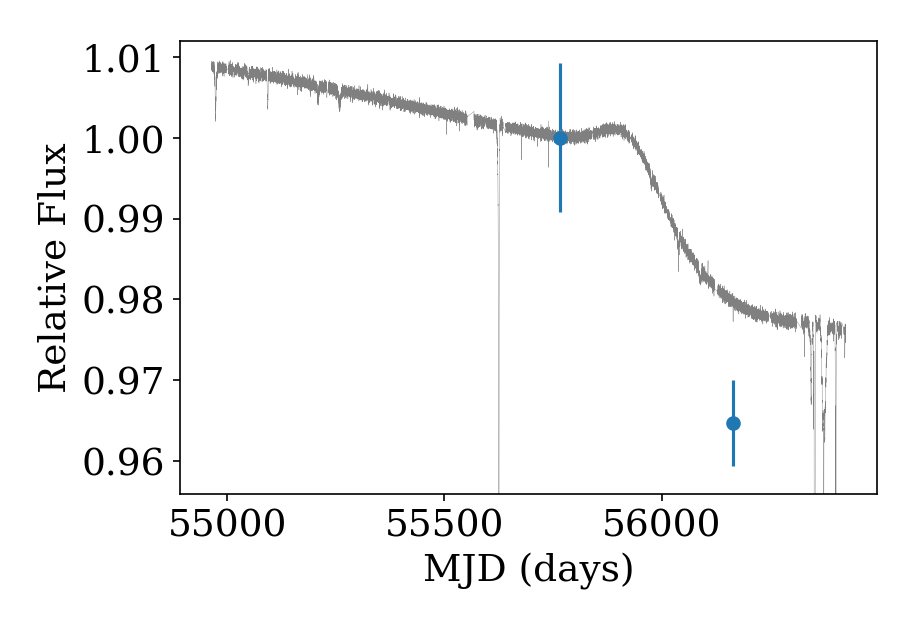
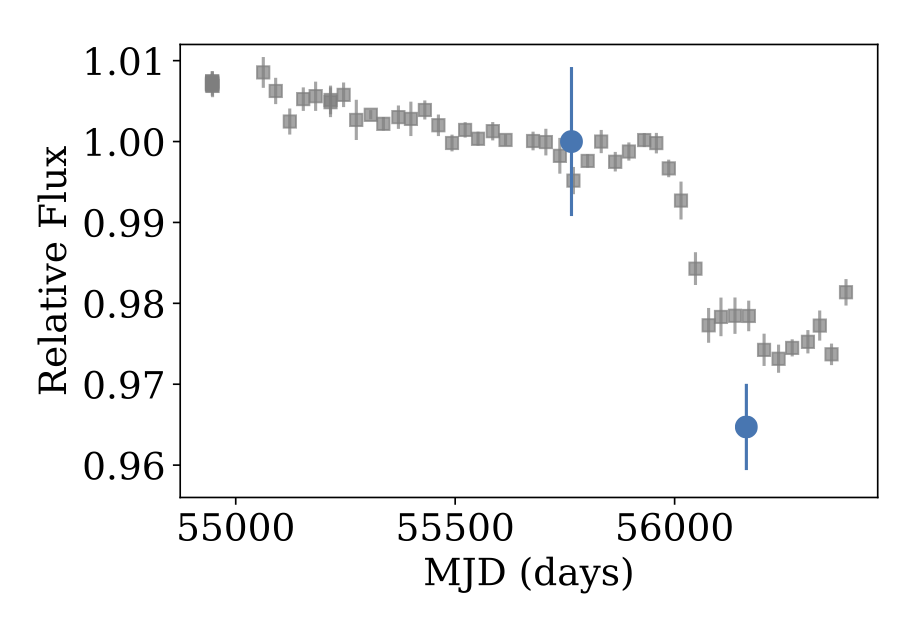
add fig to readme

diff --git a/README.md b/README.md
@@ -1,5 +1,7 @@
 # GALEX_Boyajian
 
-A quick exploration of the long and short timescale observations available from GALEX for KIC 8462852.
+An exploration of the long and short timescale observations available from GALEX for KIC 8462852.
+
+![](./KIC8462852_compare.png)
 
 Takeaway: the gradual dimming for this star appears to be confirmed by these data. Also, the dimming is quite grey (little dependence on wavelength), disfavoring dust extinction as the culprit.
